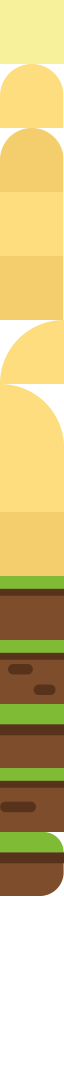
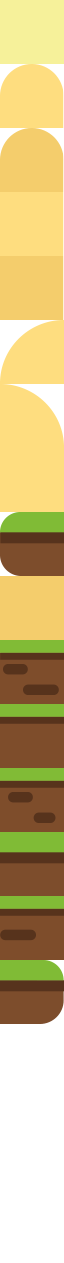
some stuff working

diff --git a/index.html b/index.html
@@ -13,49 +13,48 @@
 
   <script>
 
-const config = {
-        type: Phaser.AUTO,
-        width: 800,
-        height: 600,
-        physics: {
-            default: 'arcade',
-            arcade: {
-                gravity: { y: 300 },
-                debug: true
-            }
-        },
-        scene: {
-            preload: preload,
-            create: create,
-            update: update
+    const config = {
+      type: Phaser.AUTO,
+      width: 800,
+      height: 600,
+      physics: {
+        default: 'arcade',
+        arcade: {
+          gravity: { y: 300 },
+          debug: true
         }
+      },
+      scene: {
+        preload: preload,
+        create: create,
+        update: update
+      }
     };
 
     let platforms;
     let player;
+    let cursors;
 
     const game = new Phaser.Game(config);
 
-    function preload ()
-    {
+    function preload() {
       this.load.multiatlas('caveperson', 'assets/caveperson.json', 'assets/');
       this.load.multiatlas('world', 'assets/world.json', 'assets/');
-        // this.load.image('ground', 'assets/platform.png');
-        // this.load.image('star', 'assets/star.png');
-        // this.load.image('bomb', 'assets/bomb.png');
-        // this.load.spritesheet('dude', 'assets/dude.png', { frameWidth: 32, frameHeight: 48 });
+      // this.load.image('ground', 'assets/platform.png');
+      // this.load.image('star', 'assets/star.png');
+      // this.load.image('bomb', 'assets/bomb.png');
+      // this.load.spritesheet('dude', 'assets/dude.png', { frameWidth: 32, frameHeight: 48 });
     }
 
-    function create ()
-    {
+    function create() {
       this.anims.create({
-            key: 'run',
-            frames: this.anims.generateFrameNames('caveperson', {
-                frames: ['0.png', '1.png', '2.png', '1.png']
-            }),
-            frameRate: 10,
-            repeat: -1
-        });
+        key: 'run',
+        frames: this.anims.generateFrameNames('caveperson', {
+          frames: ['0.png', '1.png', '2.png', '1.png']
+        }),
+        frameRate: 10,
+        repeat: -1
+      });
 
       // this.add.image(400, 300, 'world', '00.png');
 
@@ -64,9 +63,15 @@ const config = {
 
       platforms = this.physics.add.staticGroup();
 
-      for(let i = 0; i < 800; i += 64) {
-        console.log(i);
-        platforms.create(i, 568, 'world').setFrame('12.png');
+      for (let i = 0; i < 800; i += 64) {
+        console.log(i % 256);
+        if (i % 128 == 64) {
+          platforms.create(i, 568, 'world').setFrame('12.png');
+        } else if (i % 256 == 128){
+          platforms.create(i, 568, 'world').setFrame('13.png');
+        } else {
+          platforms.create(i, 568, 'world').setFrame('11.png');
+        }
       }
 
       // platforms.create(600, 400, 'ground');
@@ -77,13 +82,33 @@ const config = {
 
       player.setBounce(0.2);
       player.setCollideWorldBounds(true);
-      
+
       this.physics.add.collider(player, platforms);
+
+      cursors = this.input.keyboard.createCursorKeys();
       // player.anims.play('run');
     }
 
-    function update ()
-    {
+    function update() {
+      if (cursors.left.isDown) {
+        player.setVelocityX(-160);
+        player.flipX = false;
+        player.anims.play('run', true);
+      }
+      else if (cursors.right.isDown) {
+        player.setVelocityX(160);
+        player.flipX = true;
+        player.anims.play('run', true);
+      }
+      else {
+        player.setVelocityX(0);
+
+        player.anims.stop();
+      }
+
+      if (cursors.up.isDown && player.body.touching.down) {
+        player.setVelocityY(-330);
+      }
     }
 
   </script>
